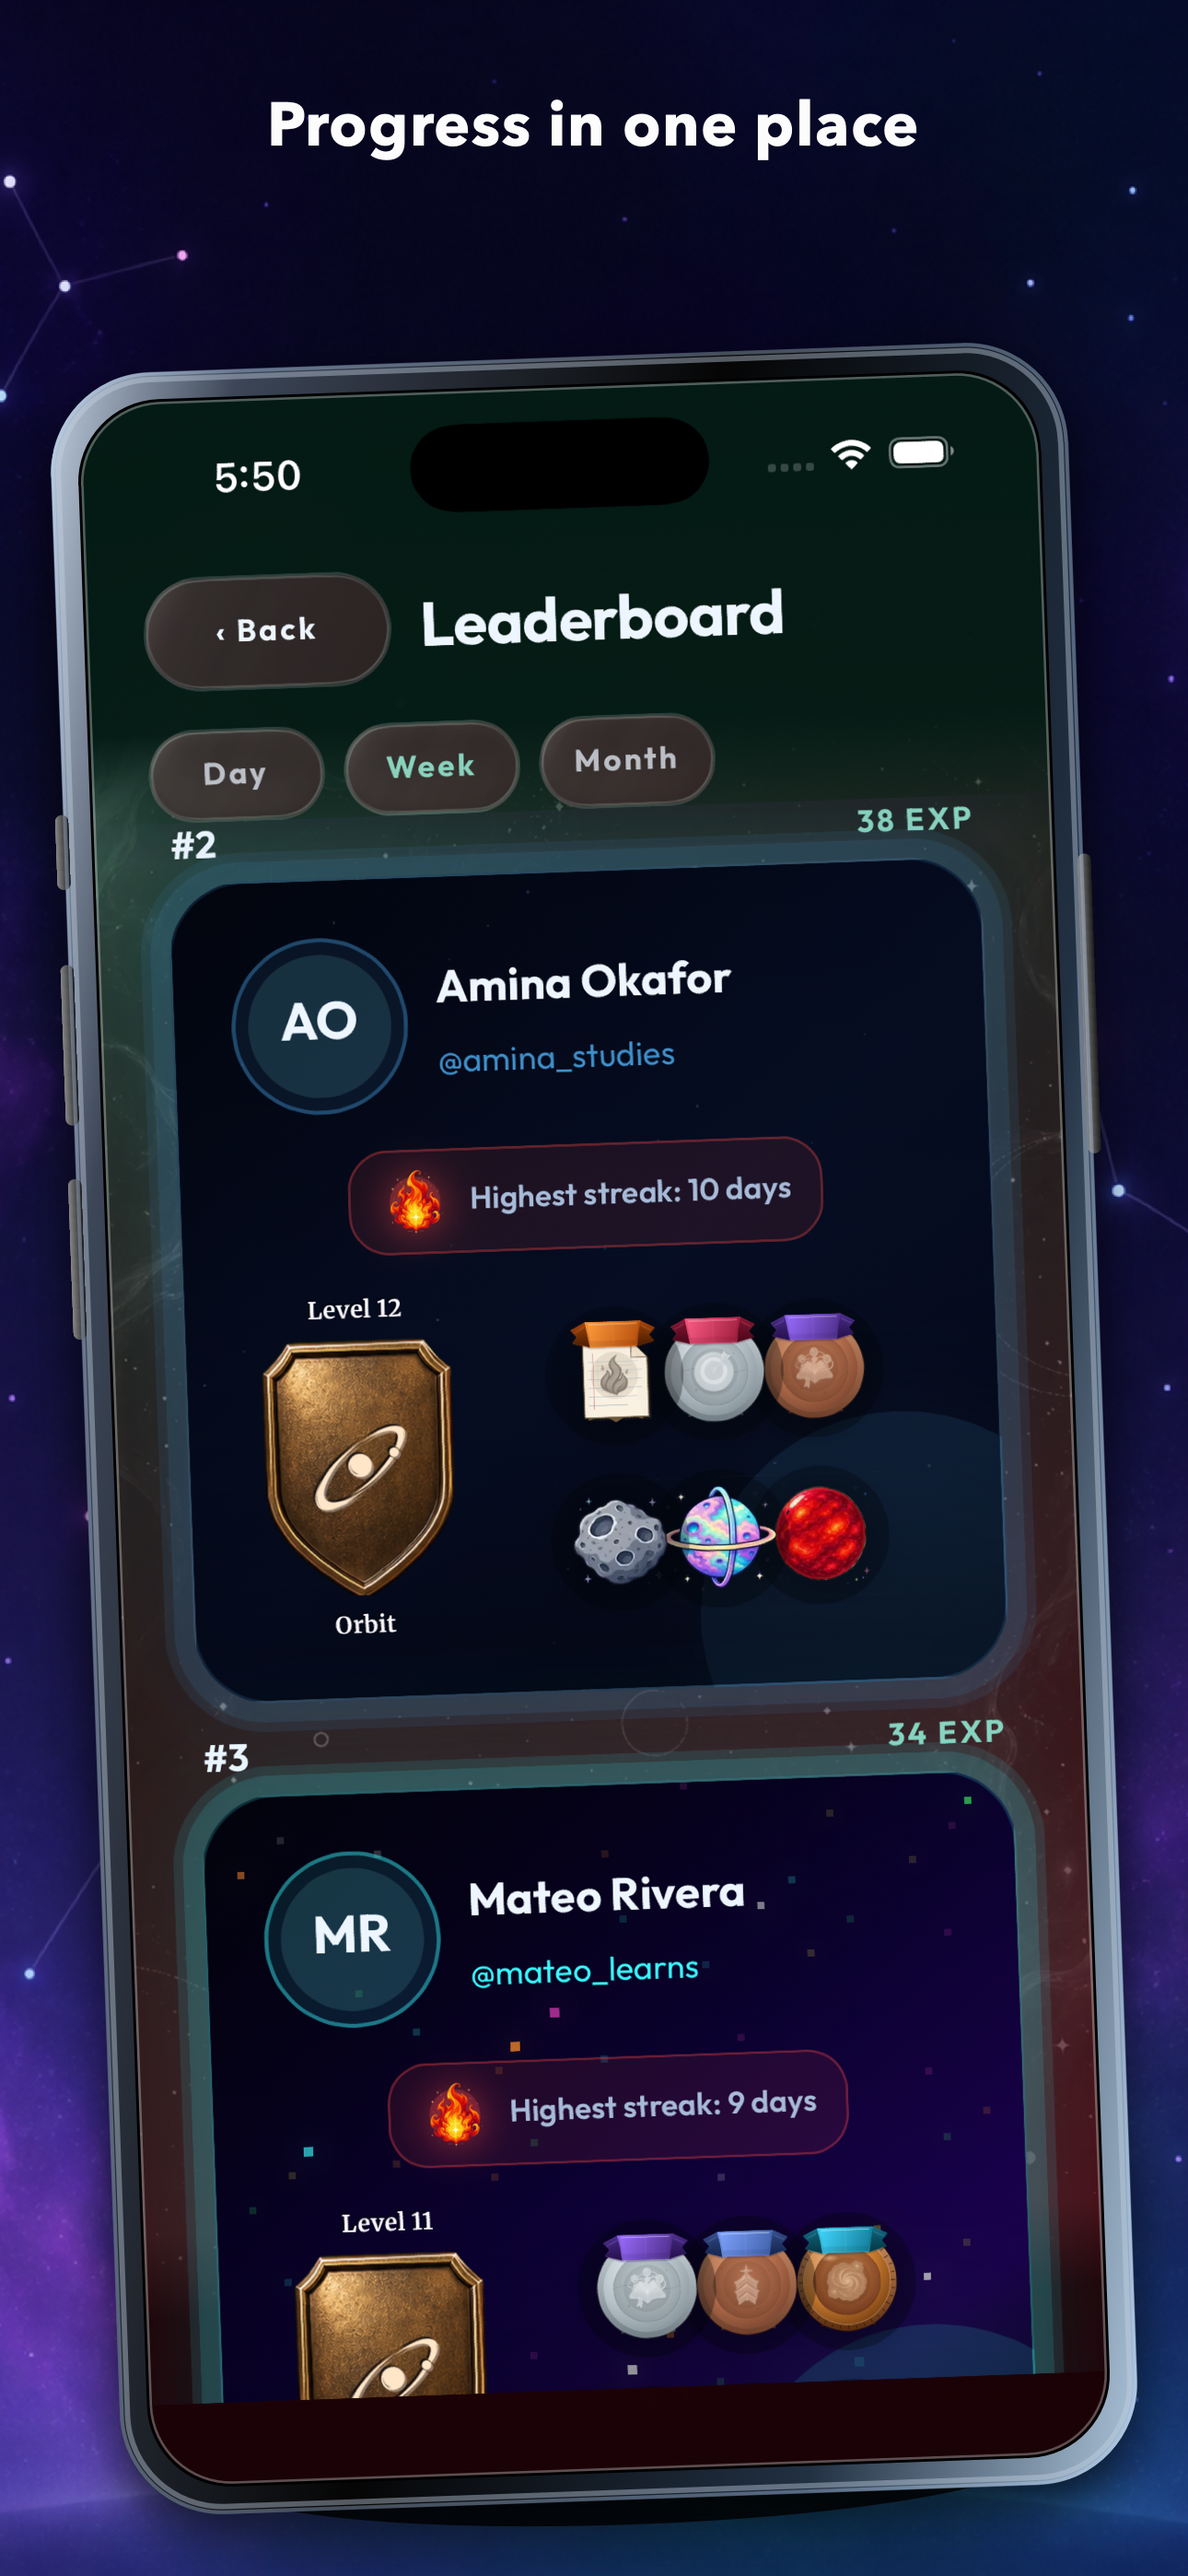
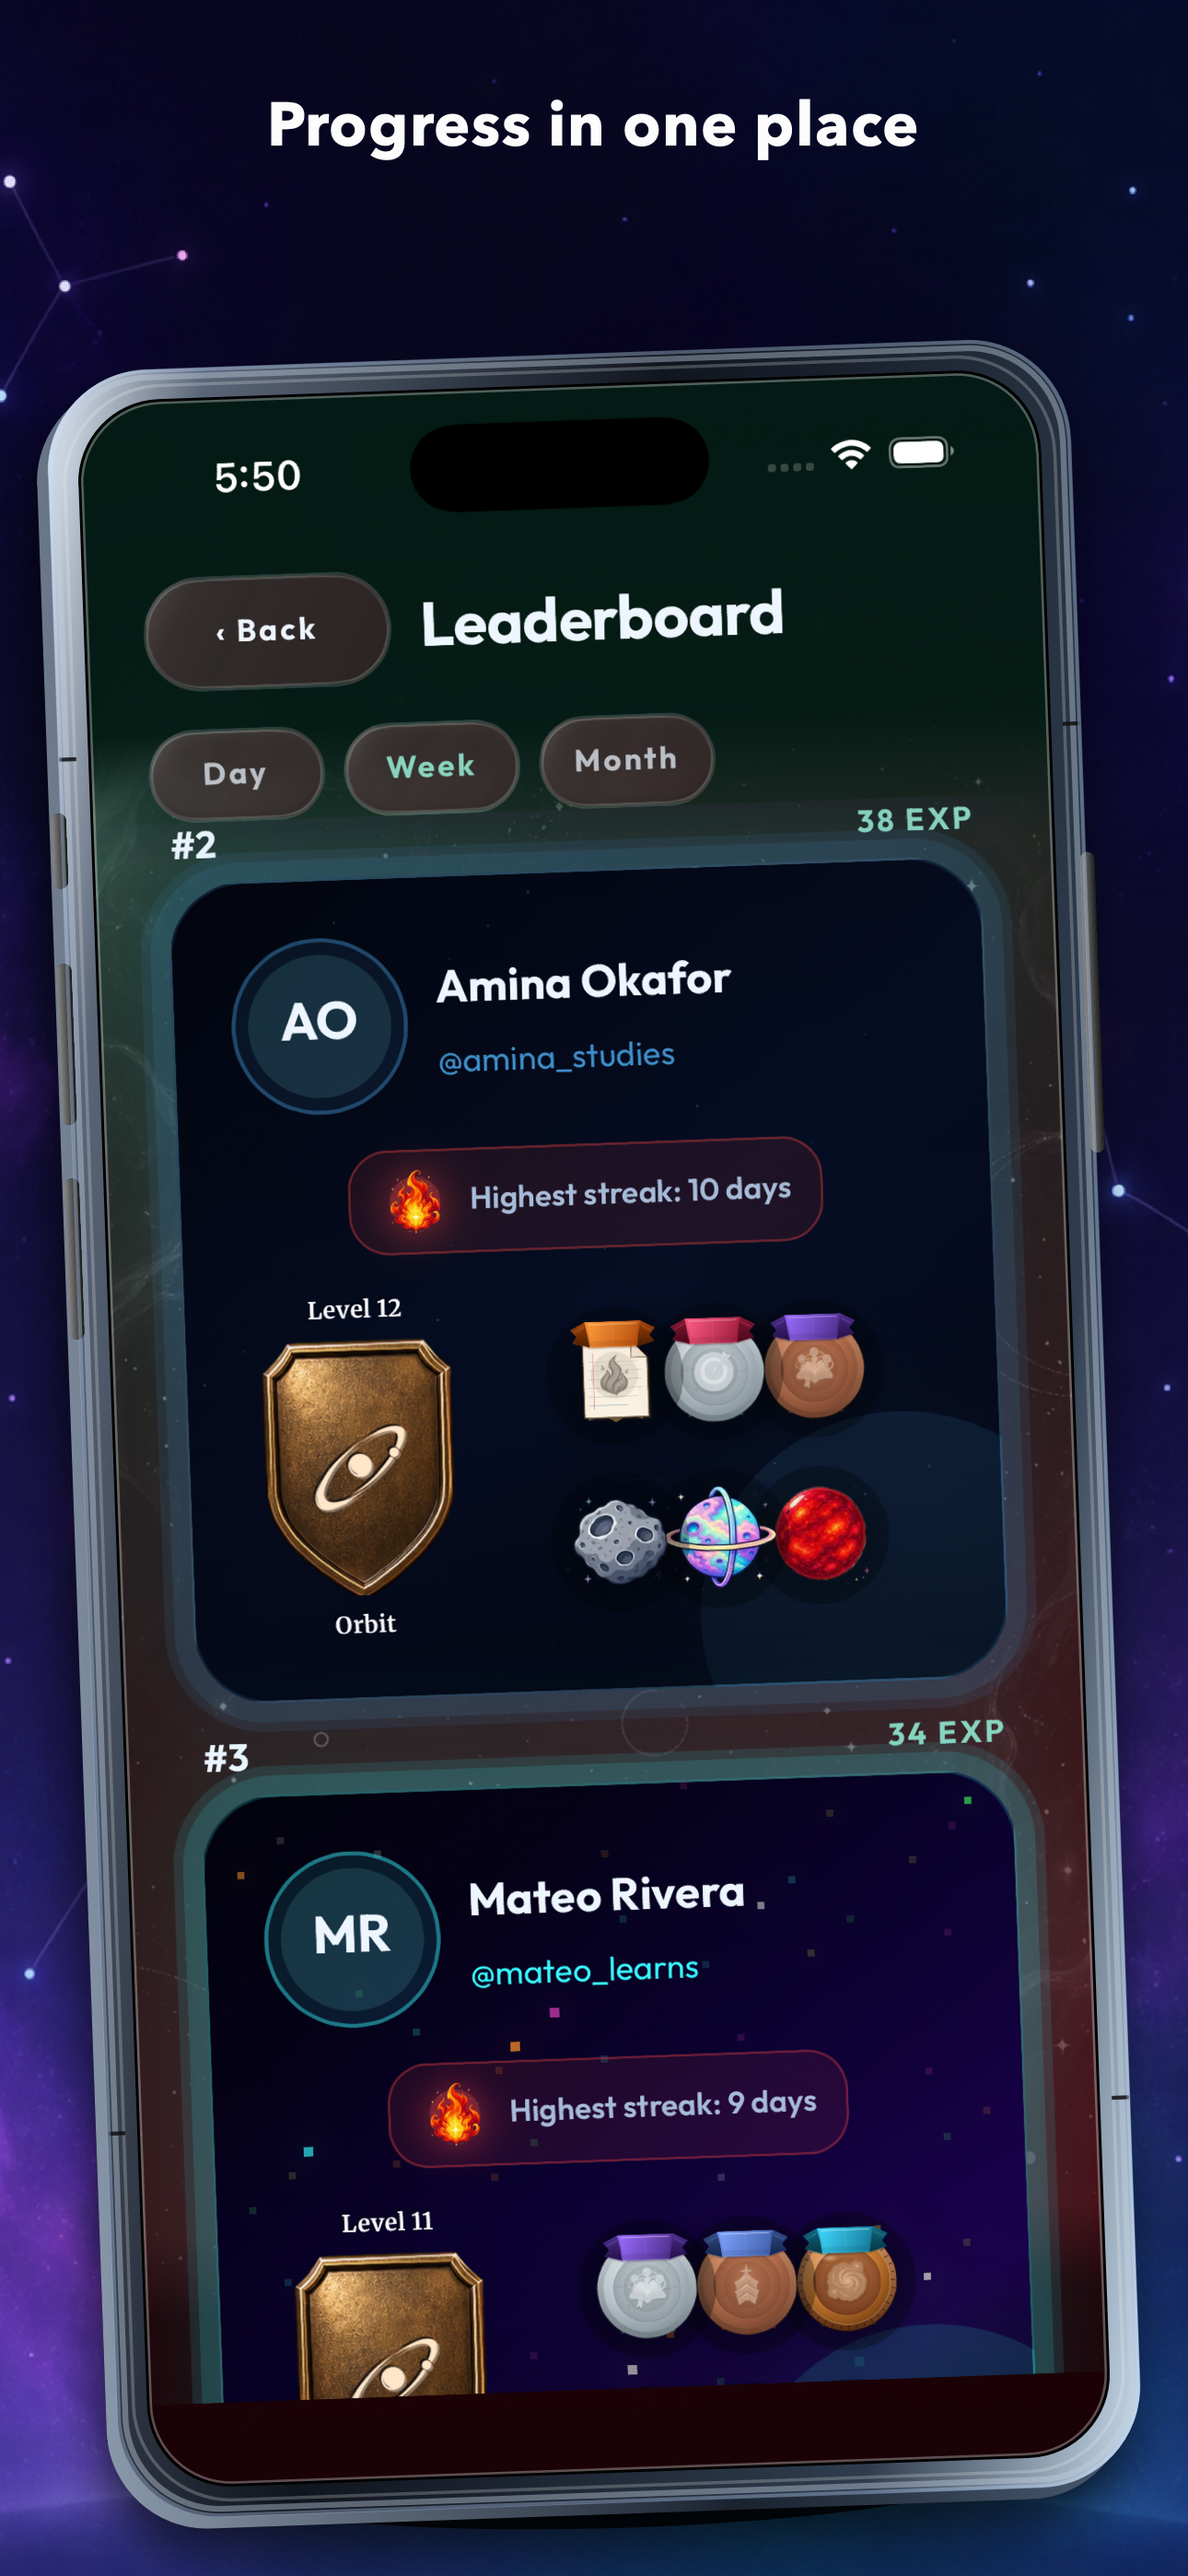
assets: refine store phone mockups and results frame

Changed region(s): [[0.031, 0.1556, 0.8992, 0.9957], [0.093, 0.1245, 0.9612, 0.9646]]

diff --git a/scripts/render-store-graphics.swift b/scripts/render-store-graphics.swift
@@ -15,7 +15,7 @@ let sourceRoot = "\(root)/docs/store-assets/play-source-screenshots"
 let shots = [
     Shot(source: "\(root)/mobile-app-assets/screenshots/applied/question-prompts/19-stats.png", name: "01-questions-from-your-material", caption: "Questions built from your material", rotation: -3.0),
     Shot(source: "\(sourceRoot)/choice-set.png", name: "02-practice-across-subjects", caption: "Practice across subjects", rotation: 2.6),
-    Shot(source: "\(sourceRoot)/problem-solver-outline.png", name: "03-outlines-into-practice", caption: "Turn outlines into practice", rotation: -2.5),
+    Shot(source: "\(root)/mobile-app-assets/screenshots/applied/results/90-percent.png", name: "03-know-what-to-fix", caption: "Know what to fix", rotation: -2.5),
     Shot(source: "\(sourceRoot)/problem-solver-reasoning.png", name: "04-see-every-step", caption: "See every step", rotation: 2.8),
     Shot(source: "\(sourceRoot)/constellations.png", name: "05-your-subjects-mapped", caption: "Your subjects, mapped", rotation: -2.4),
     Shot(source: "\(sourceRoot)/leaderboard.png", name: "06-progress-in-one-place", caption: "Progress in one place", rotation: 2.5),
@@ -86,11 +86,12 @@ func centeredText(_ text: String, y: CGFloat, width: CGFloat, size: CGFloat) {
 }
 
 func drawFlyerPhone(_ screenshot: NSImage, screenRect: NSRect, rotation: CGFloat) {
-    let bezel: CGFloat = max(12, screenRect.width * 0.031)
+    let bezel: CGFloat = max(14, screenRect.width * 0.034)
     let body = screenRect.insetBy(dx: -bezel, dy: -bezel)
     let bodyRadius = screenRect.width * 0.105
     let screenRadius = screenRect.width * 0.084
     let center = NSPoint(x: body.midX, y: body.midY)
+    let depth = max(5, screenRect.width * 0.012)
 
     NSGraphicsContext.saveGraphicsState()
     let transform = NSAffineTransform()
@@ -113,7 +114,7 @@ func drawFlyerPhone(_ screenshot: NSImage, screenRect: NSRect, rotation: CGFloat
     shadow.shadowOffset = NSSize(width: -rotation * 0.8, height: -screenRect.width * 0.025)
     shadow.set()
     NSColor.black.setFill()
-    NSBezierPath(roundedRect: body, xRadius: bodyRadius, yRadius: bodyRadius).fill()
+    NSBezierPath(roundedRect: body.offsetBy(dx: rotation > 0 ? -depth : depth, dy: -depth), xRadius: bodyRadius, yRadius: bodyRadius).fill()
     NSGraphicsContext.restoreGraphicsState()
 
     NSGraphicsContext.saveGraphicsState()
@@ -123,12 +124,21 @@ func drawFlyerPhone(_ screenshot: NSImage, screenRect: NSRect, rotation: CGFloat
     transform2.translateX(by: -center.x, yBy: -center.y)
     transform2.concat()
 
+    // Dark titanium body with a brighter rolled edge and a separate rear depth plane.
+    let backPlane = body.offsetBy(dx: rotation > 0 ? -depth : depth, dy: -depth)
+    let backMetal = NSGradient(colorsAndLocations:
+        (NSColor(calibratedRed: 0.46, green: 0.52, blue: 0.60, alpha: 1), 0.0),
+        (NSColor(calibratedRed: 0.08, green: 0.10, blue: 0.14, alpha: 1), 0.52),
+        (NSColor(calibratedRed: 0.30, green: 0.38, blue: 0.48, alpha: 1), 1.0)
+    )!
+    backMetal.draw(in: NSBezierPath(roundedRect: backPlane, xRadius: bodyRadius, yRadius: bodyRadius), angle: 5)
+
     let chassis = NSGradient(colorsAndLocations:
-        (NSColor(calibratedRed: 0.64, green: 0.70, blue: 0.78, alpha: 1), 0.0),
-        (NSColor(calibratedRed: 0.18, green: 0.21, blue: 0.27, alpha: 1), 0.12),
-        (NSColor(calibratedWhite: 0.025, alpha: 1), 0.46),
-        (NSColor(calibratedRed: 0.10, green: 0.14, blue: 0.20, alpha: 1), 0.78),
-        (NSColor(calibratedRed: 0.58, green: 0.68, blue: 0.78, alpha: 1), 1.0)
+        (NSColor(calibratedRed: 0.80, green: 0.84, blue: 0.89, alpha: 1), 0.0),
+        (NSColor(calibratedRed: 0.28, green: 0.32, blue: 0.39, alpha: 1), 0.10),
+        (NSColor(calibratedRed: 0.055, green: 0.065, blue: 0.09, alpha: 1), 0.42),
+        (NSColor(calibratedRed: 0.14, green: 0.18, blue: 0.24, alpha: 1), 0.82),
+        (NSColor(calibratedRed: 0.70, green: 0.78, blue: 0.86, alpha: 1), 1.0)
     )!
     chassis.draw(in: NSBezierPath(roundedRect: body, xRadius: bodyRadius, yRadius: bodyRadius), angle: -12)
 
@@ -137,6 +147,26 @@ func drawFlyerPhone(_ screenshot: NSImage, screenRect: NSRect, rotation: CGFloat
     rail.lineWidth = max(2.2, bezel * 0.18)
     NSColor(calibratedRed: 0.72, green: 0.78, blue: 0.86, alpha: 0.42).setStroke()
     rail.stroke()
+
+    let innerRail = NSBezierPath(roundedRect: screenRect.insetBy(dx: -bezel * 0.50, dy: -bezel * 0.50), xRadius: screenRadius + bezel * 0.55, yRadius: screenRadius + bezel * 0.55)
+    innerRail.lineWidth = max(1.4, bezel * 0.10)
+    NSColor(calibratedWhite: 0.92, alpha: 0.24).setStroke()
+    innerRail.stroke()
+
+    // Fine antenna breaks and polished caps keep the silhouette from reading as a flat outline.
+    NSColor(calibratedWhite: 0.05, alpha: 0.85).setStroke()
+    for y in [body.minY + body.height * 0.18, body.maxY - body.height * 0.18] {
+        let leftBreak = NSBezierPath()
+        leftBreak.move(to: NSPoint(x: body.minX + 1, y: y))
+        leftBreak.line(to: NSPoint(x: body.minX + bezel * 0.55, y: y))
+        leftBreak.lineWidth = max(2, bezel * 0.12)
+        leftBreak.stroke()
+        let rightBreak = NSBezierPath()
+        rightBreak.move(to: NSPoint(x: body.maxX - bezel * 0.55, y: y))
+        rightBreak.line(to: NSPoint(x: body.maxX - 1, y: y))
+        rightBreak.lineWidth = max(2, bezel * 0.12)
+        rightBreak.stroke()
+    }
 
     let sideWidth = max(5, bezel * 0.46)
     let leftX = body.minX - sideWidth * 0.62
@@ -147,7 +177,14 @@ func drawFlyerPhone(_ screenshot: NSImage, screenRect: NSRect, rotation: CGFloat
         NSRect(x: leftX, y: body.maxY - body.height * 0.45, width: sideWidth, height: body.height * 0.075),
         NSRect(x: body.maxX - sideWidth * 0.38, y: body.maxY - body.height * 0.38, width: sideWidth, height: body.height * 0.14),
     ] {
+        NSGraphicsContext.saveGraphicsState()
+        let buttonShadow = NSShadow()
+        buttonShadow.shadowColor = NSColor.black.withAlphaComponent(0.72)
+        buttonShadow.shadowBlurRadius = 3
+        buttonShadow.shadowOffset = NSSize(width: 1.5, height: -1.5)
+        buttonShadow.set()
         buttonGradient.draw(in: NSBezierPath(roundedRect: button, xRadius: sideWidth / 2, yRadius: sideWidth / 2), angle: 0)
+        NSGraphicsContext.restoreGraphicsState()
     }
 
     NSColor.black.setFill()

diff --git a/docs/store-assets/README.md b/docs/store-assets/README.md
@@ -28,15 +28,16 @@ to rebuild both screenshot sets and the Play feature graphic.
 
 1. Questions built from your material
 2. Practice across subjects
-3. Turn outlines into practice
+3. Know what to fix
 4. See every step
 5. Your subjects, mapped
 6. Progress in one place
 
 The first frame uses the newest full-resolution statistics question-set capture
 available in the website repository. The second uses the current multiple-choice
-set capture, and frames three through six use the other current native captures
-in `play-source-screenshots/`.
+set capture, the third uses the current 90% Results Ready capture, and frames
+four through six use the other current native captures in
+`play-source-screenshots/`.
 
 ## Export constraints
 
